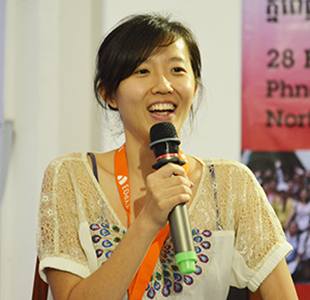
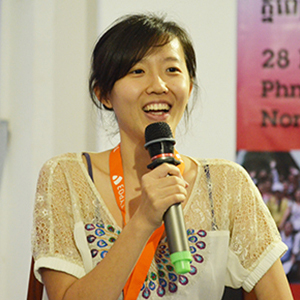
Updating test and fixing mentor image to be square

diff --git a/tests/imageSize.js b/tests/imageSize.js
@@ -16,7 +16,6 @@ var sizeOf = require('image-size');
 var assert = require('assert');
 
 function isImagesRatioEqual (path) {
-  var result = true;
   // Reads directories
   fs.readdir(path, function(err, files) {
     if ( err ) {
@@ -30,25 +29,17 @@ function isImagesRatioEqual (path) {
       if ( ext == 'jpg' || ext == 'png' || ext == 'gif' ) {
         var dimensions = sizeOf(path + file);
         // Asserts dimensions
-        assert.equal(dimensions.width, dimensions.height)
-        if ( dimensions.width !== dimensions.height ) {
-          result = false;
-          return false;
-        }
-      } else {
-        result = false;
-        return false;
+        assert.equal(dimensions.width, dimensions.height, file)
       }
     });
   }); 
-  return result;
 }
 
 describe('Image tester', function() {
   it('Should verify that all student images exist in 1:1 ratio', function() {
-    assert.equal(isImagesRatioEqual('./images/students/'), true)
+    isImagesRatioEqual('./images/students/')
   });
   it('Should verify that all mentor images exist in 1:1 ratio', function() {
-    assert.equal(isImagesRatioEqual('./images/mentors/'), true)
+    isImagesRatioEqual('./images/mentors/')
   })
 });
